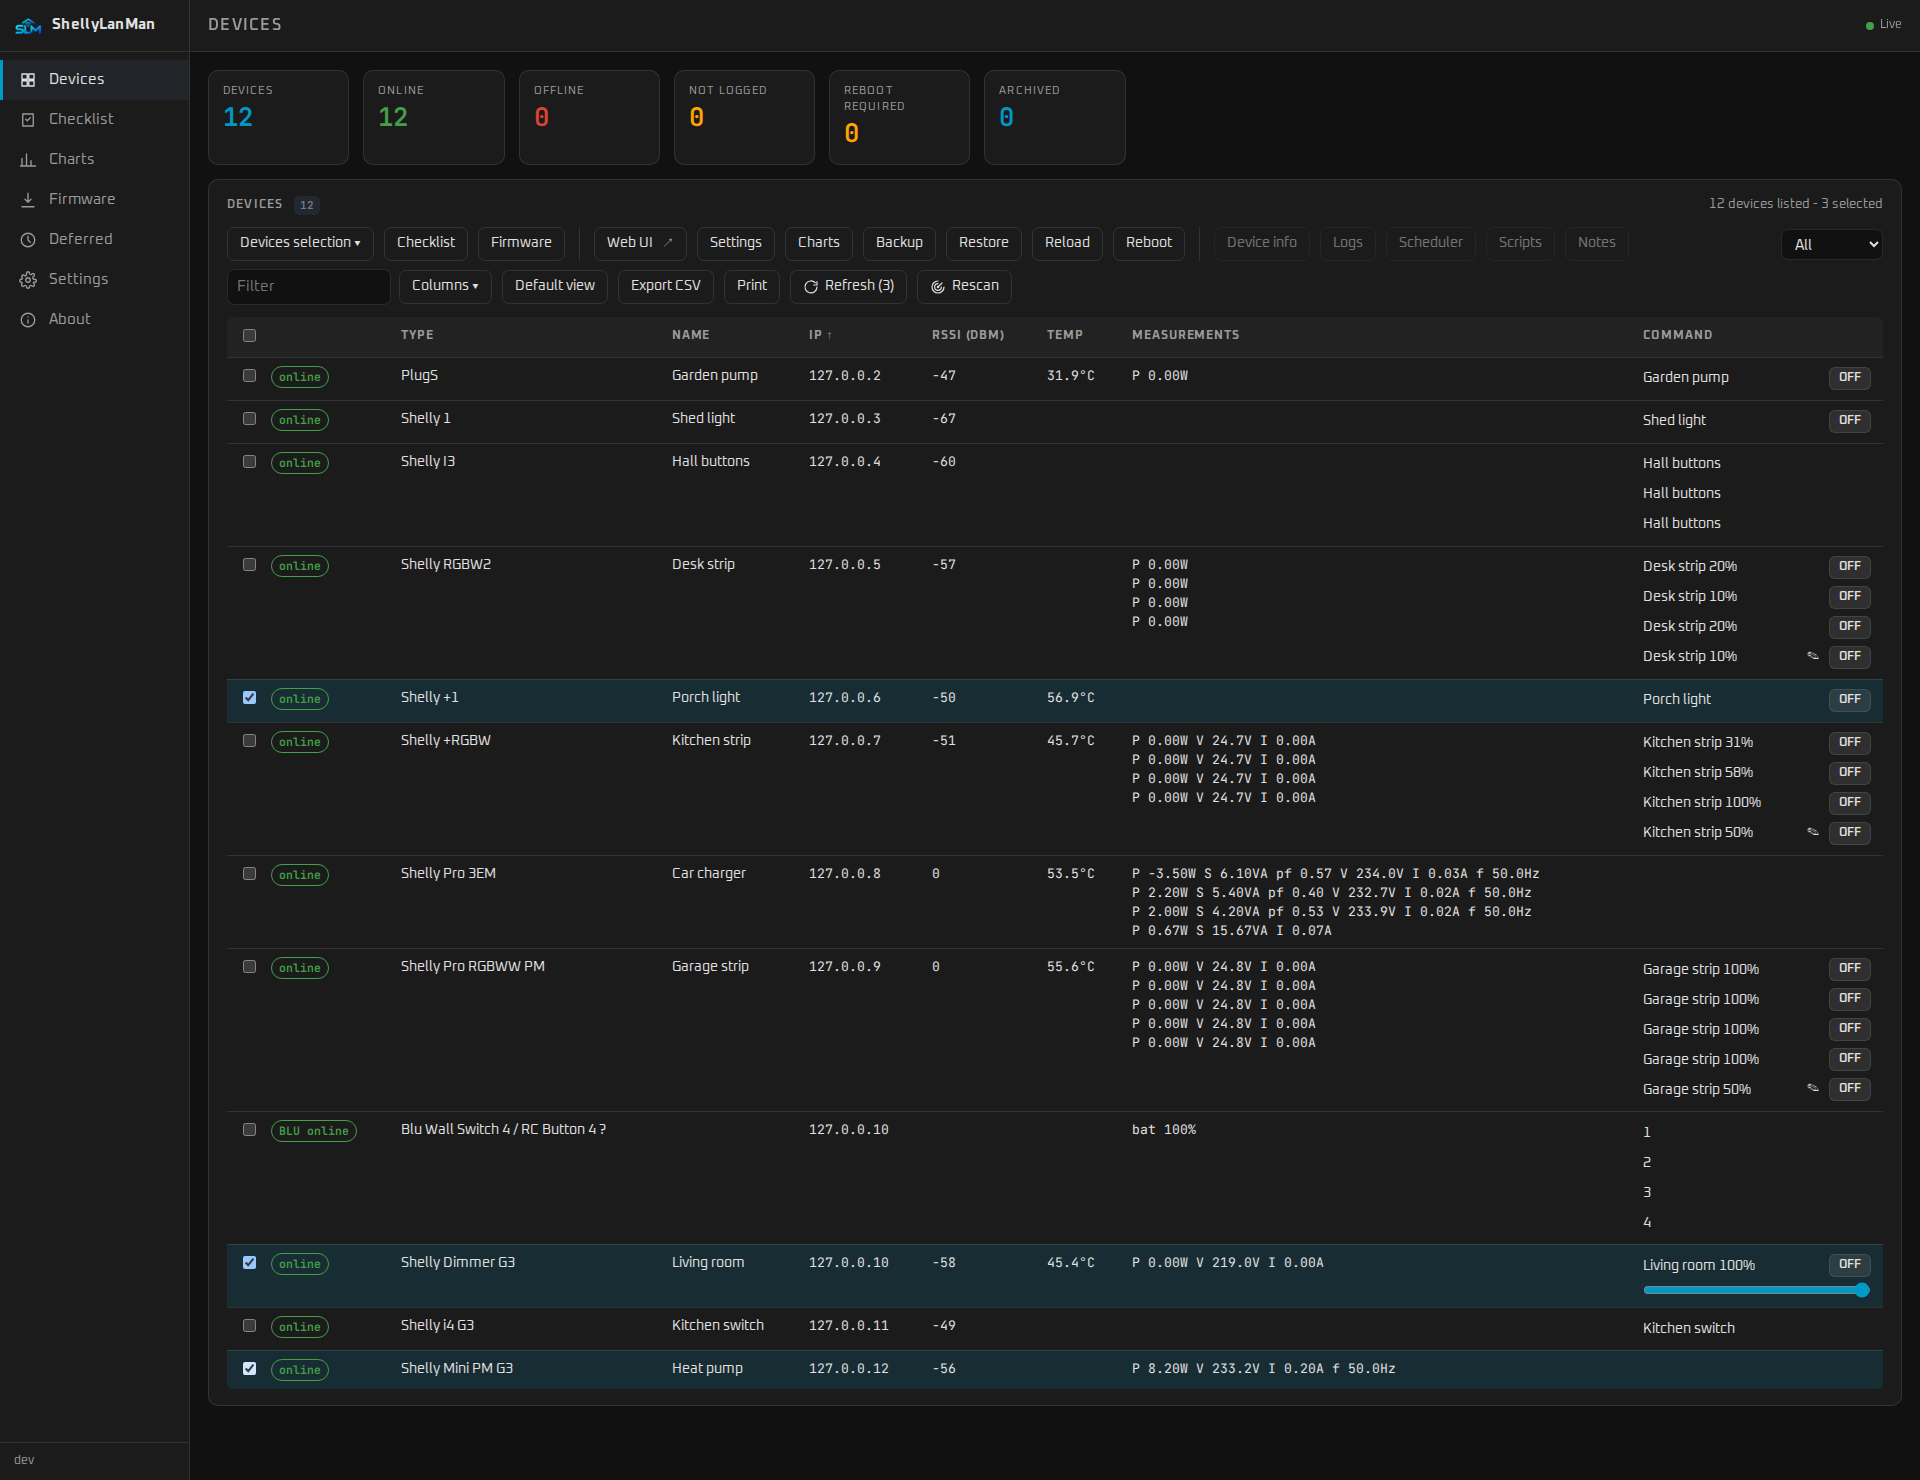
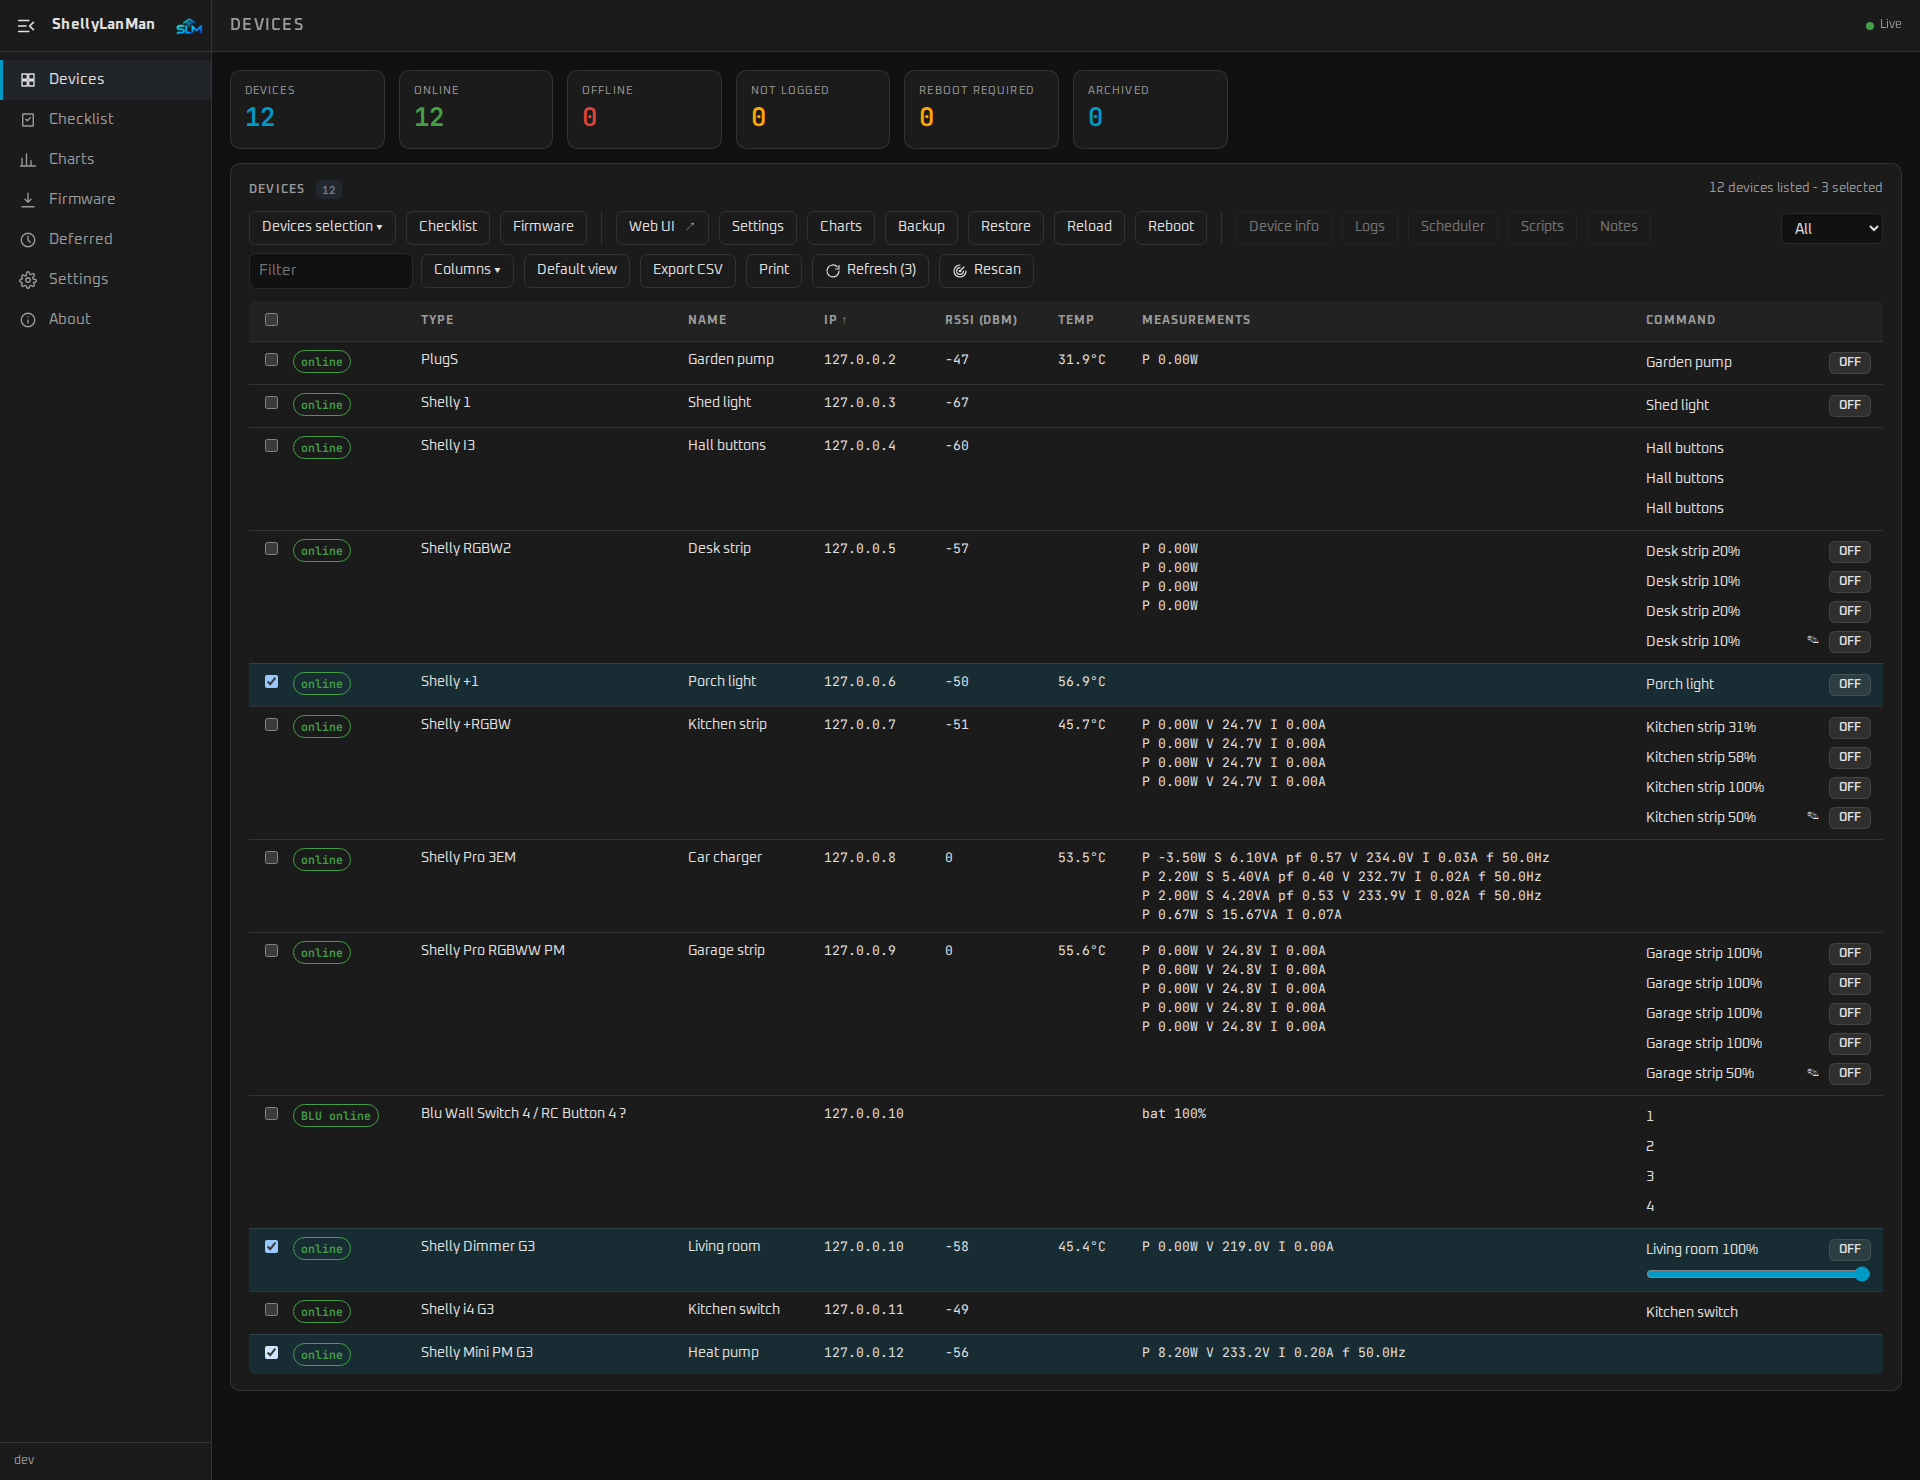
docs(readme): screenshots with the new sidebar header
Claude-Session: https://claude.ai/code/session_01GDD3DkdmFUiG3cEB9Y4Umy

diff --git a/docs/WORKFLOW.md b/docs/WORKFLOW.md
@@ -67,7 +67,7 @@ simulator): styled under the CSP, following the theme, a slow device (4 s) and a
 failing read (HTTP 500). Run it after changes to the CSP, the editor or its
 libraries; unit tests do not render under the real CSP. The same goes for
 `check-blu.py` (relayed BLU rows and the Identify wizard, "Living room" relays a
-BLU device, `tools/screenshots/blu/`) and `check-login.py` (the UI password:
+BLU device, `tools/screenshots/blu/`) and `check-nav.py` (full and minimal sidebar) and `check-login.py` (the UI password:
 Settings → Security, login, log out, switching off).
 
 Slow or failing devices: an optional `_behaviour.json` in a fixture directory
